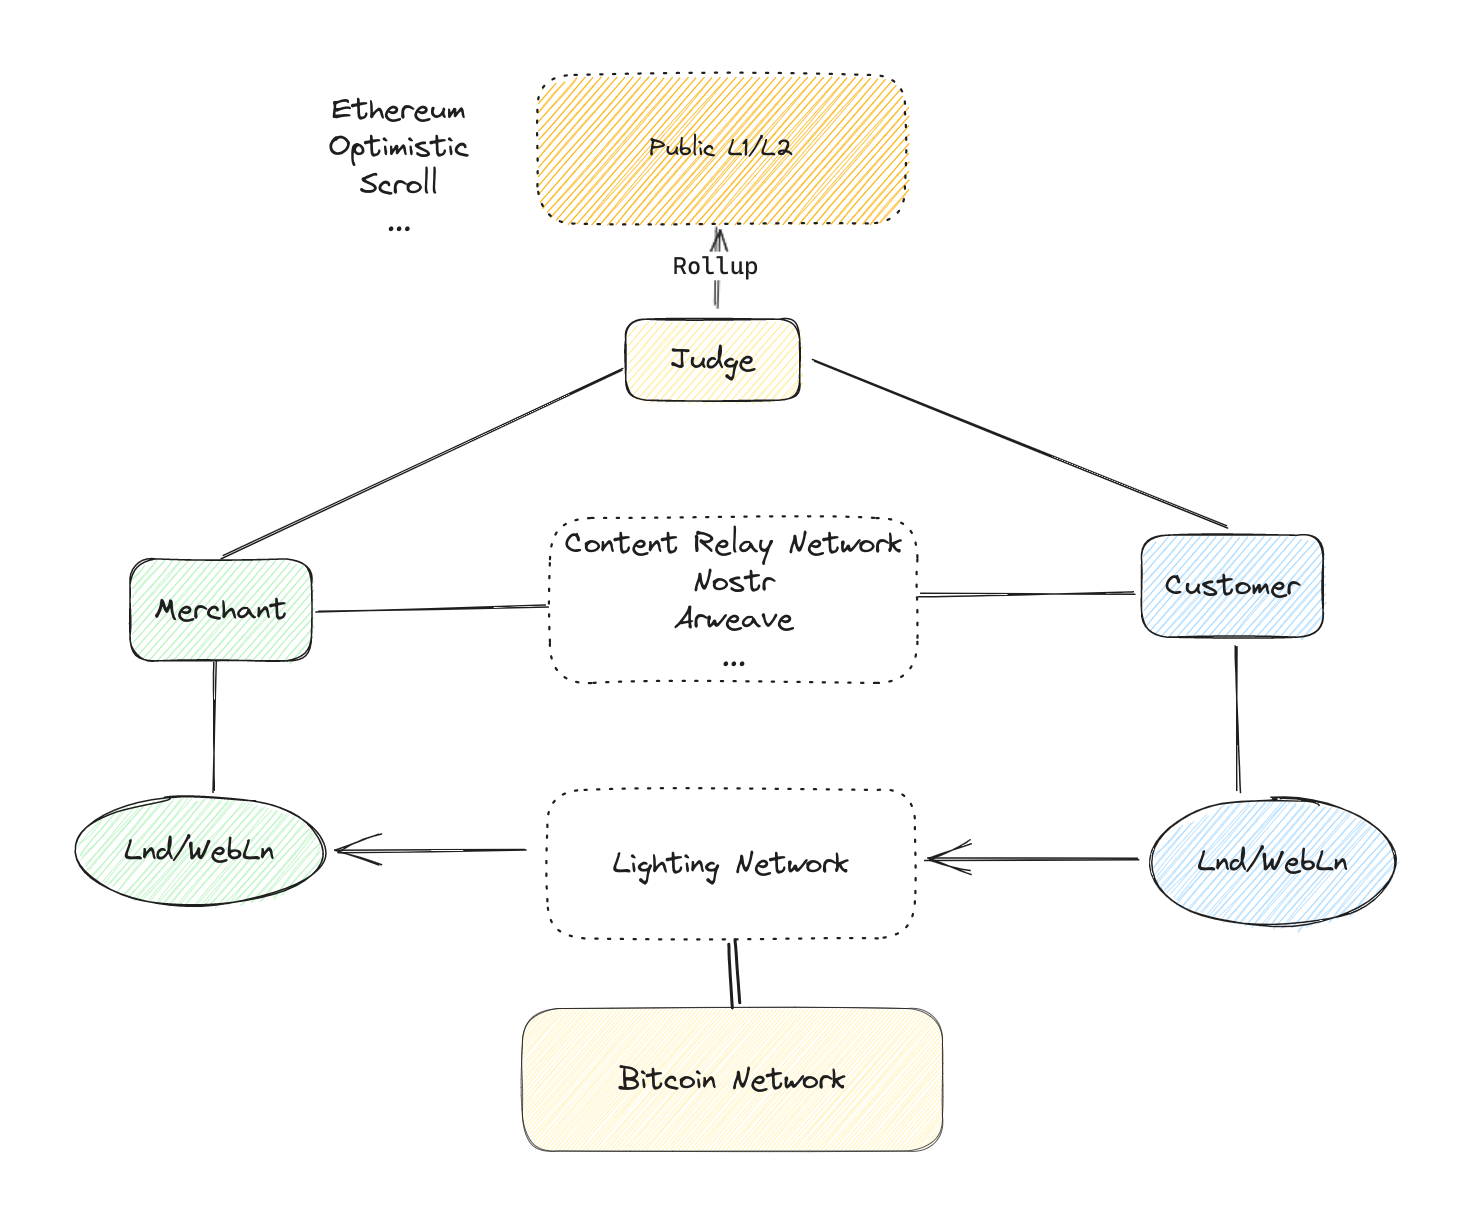
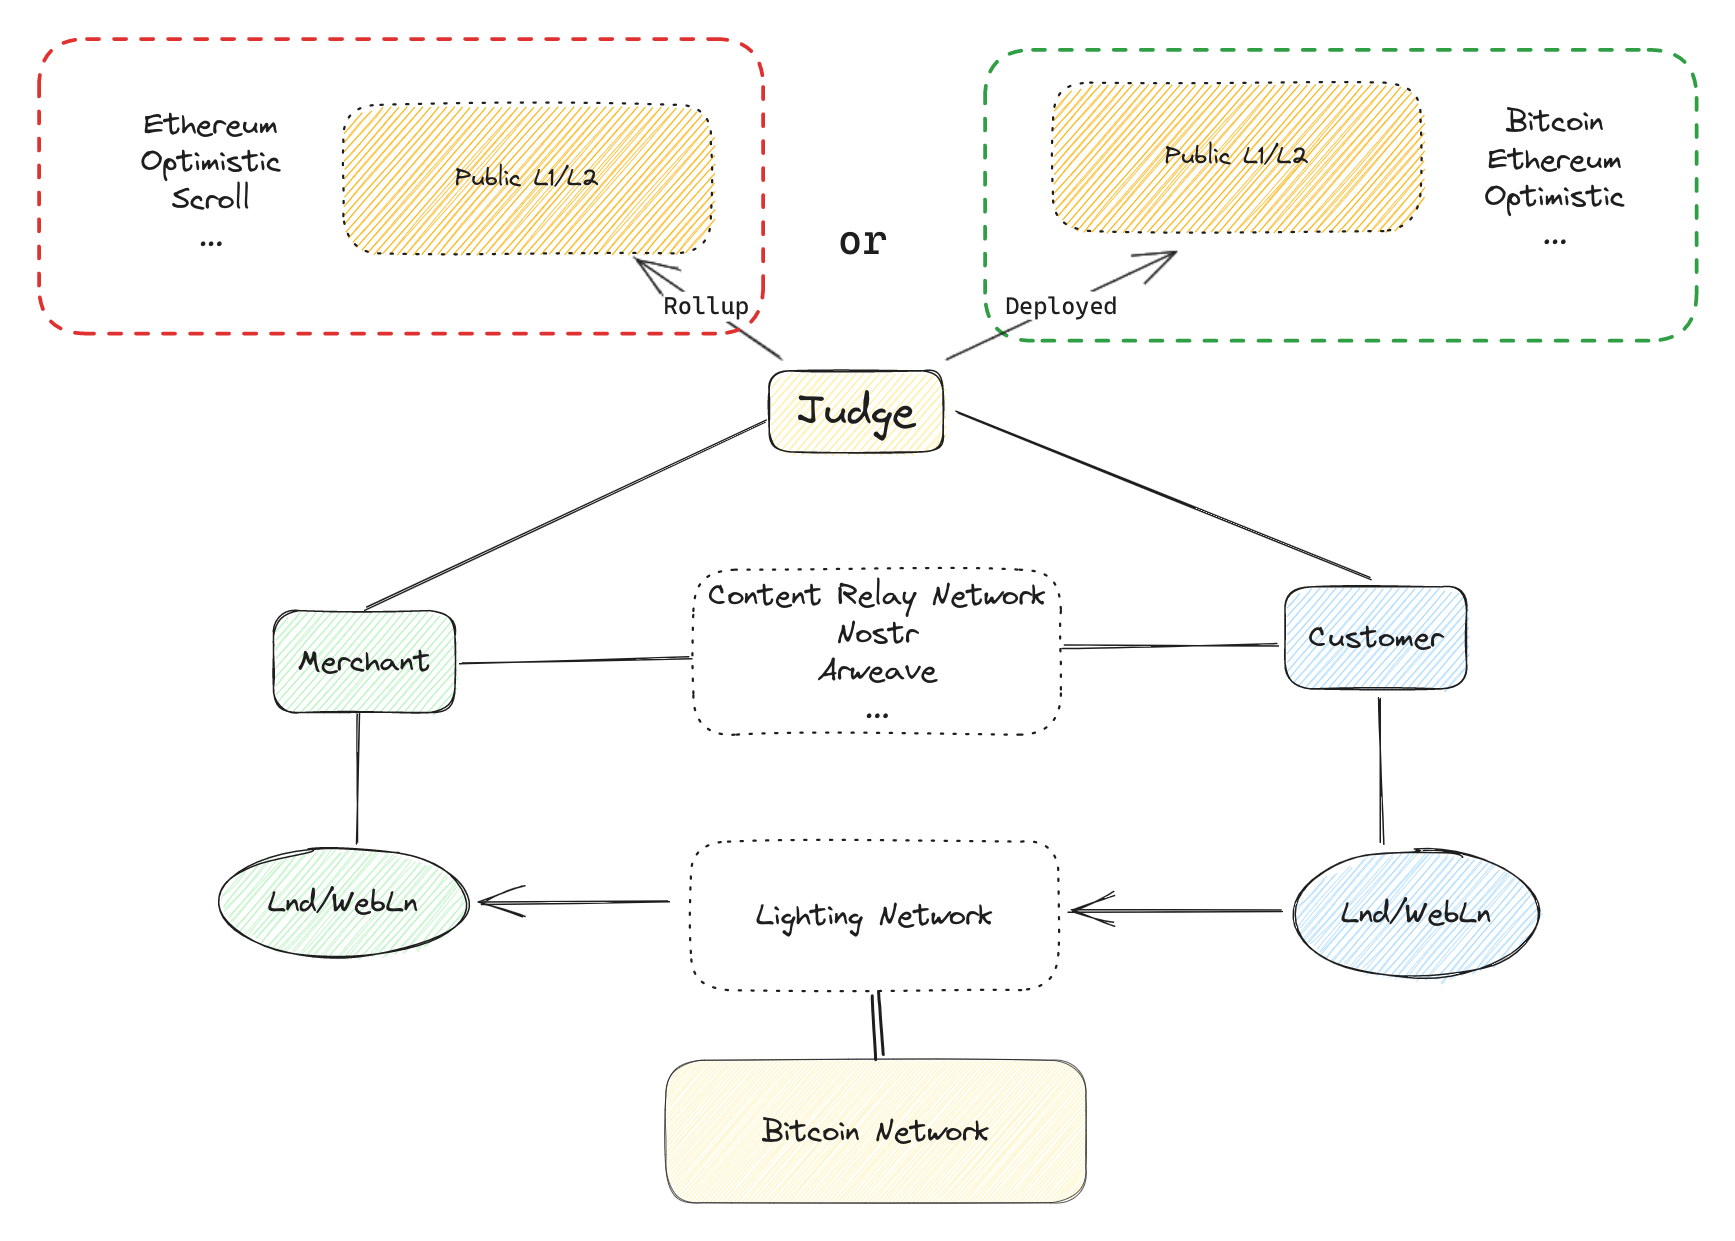
feature: add circom code for smaller chunk

diff --git a/doc/design.md b/doc/design.md
@@ -39,7 +39,7 @@ In our trustless and decentralized model, the "platform"'s Job is substituted by
 **Payment network** is where users pay some cryptocurrency to the merchants, and generate a veriable proof of purchase "I spent x money for product(content) C". The proof of purchase is the primitives for `Judge` esttle the arguments between merchants and customers. In our implementation, we use Lightning Network as the payment network, as it can easily settle a `PoP` lighting fast without onchain verification. 
 
 
-**Judge** is a accountable and verifable third party, which is secured by a blockchain L1/L2, or it can be a L1 itself. Similar to a conventional e-commerce platform, merchants are obliged to place a deposit on `Judge`, which holds them accountable in cases of wrongdoing. And `Judge` can detect and punish those who cheat in a content purchase, which make the purchase trustless for customers. 
+**Judge** is a accountable and verifable third party, which is secured by a blockchain L1/L2. `Judge` can be a smart contract deployed on any L1/L2, or be a L3 protected by L1/L2 through rollup methods. Similar to a conventional e-commerce platform, merchants are obliged to place a deposit on `Judge`, which holds them accountable in cases of wrongdoing. And `Judge` can detect and punish those who cheat in a content purchase, which make the purchase trustless for customers. 
 
 ## Primitives 
 
@@ -182,7 +182,7 @@ The Judge contract has two main goals:
 
 Every user (both merchants and customers) must have an identity keypair in Judge, similar to other blockchain systems. Judge utilizes two types of tokens: the execution token (`eToken`) and the deposit token (`dToken`). `eToken` is used to pay for Judge's execution costs (akin to gas fees in Ethereum), while `dToken` is used as a security deposit. There is no strict distinction between `eToken` and `dToken`; a single token can serve both purposes. Every call to Judge incurs a transaction fee payable in `eToken`.
 
-## Interface
+### Interface
 
 For the data commitment phase, Judge provides the following interfaces to merchants:
 - **Create a store**: A merchant deposits some `dToken` and opens a store.

diff --git a/doc/judge_contract.md b/doc/judge_contract.md
@@ -33,7 +33,7 @@ For the challenge phase, Judge provides:
 - Case list: A list of ongoing cases.
 - Case number: The next case number, starting from zero.
 - `store_2_contents map`: A hashmap from store index to a dynamic array of contents (`mapping(uint256 => uint256[])`).
-- `case recorder`: A hashmap (`mapping(uint256 => bool)`).
+- `case recorder`: A hashmap (`mapping((payment_hash, r) => bool)`).
 
 `Judge` also has some pre-configed parameters, and all time are counted on block numbers: 
 - `dToken` address: this define which `dToken` we use in this `Judge`. 
@@ -148,7 +148,7 @@ Each case is an object in Judge, maintaining:
 - Outputs:
     - Case ID.
 - Workflow:
-    - Check `case recorder`: If `PoP.h` is in the recorder, remove it.
+    - Check `case recorder`: If `PoP.h and PoP.r` is in the recorder, remove it.
     - Check warranty: Ensure `timestamp + warranty < current height`.
     - Verify `challenge deposit`, check if suer paid enough `challenge deposit`. 
     - Check store status: The store must not be "closed".
